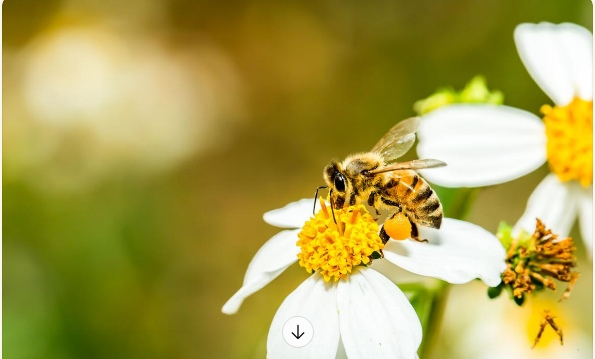
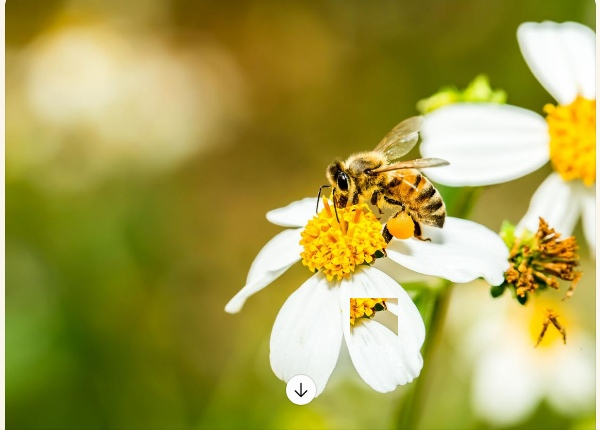
fix(next): place bee photo under story paragraph, remove arrow
Use the provided bee image without the scroll control, directly
below the “more than its taste” paragraph on About.

diff --git a/frontend-next/app/about/page.js b/frontend-next/app/about/page.js
@@ -98,17 +98,17 @@ export default function AboutPage() {
             pollination, and the incredible world of the bees.
           </p>
 
-          <p>
+        </div>
+      </section>
+
+      {/* Closing thought + bee photo */}
+      <section className="about-story__bee">
+        <div className="container">
+          <p className="about-story__bee-text">
             But the more we looked at it, the more we realised that honey is
             about so much more than its taste. Behind every golden drop is a
             remarkable story of nature, hard work, and life working together.
           </p>
-        </div>
-      </section>
-
-      {/* Bee photo */}
-      <section className="about-story__media about-story__media--tight">
-        <div className="container">
           <figure className="about-story__figure">
             {/* eslint-disable-next-line @next/next/no-img-element */}
             <img

diff --git a/frontend-next/app/globals.css b/frontend-next/app/globals.css
@@ -2497,3 +2497,16 @@ button.linkish {
     max-height: 320px;
   }
 }
+
+
+.about-story__bee {
+  padding: 0.5rem 0 1rem;
+}
+
+.about-story__bee-text {
+  max-width: 680px;
+  margin: 0 auto 1.35rem;
+  color: #4a3f36;
+  font-size: 1.05rem;
+  line-height: 1.75;
+}
